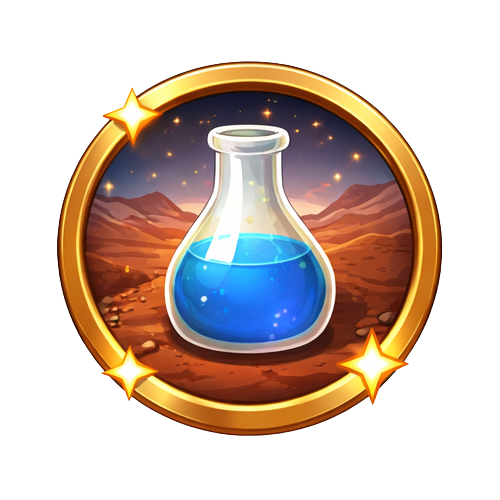
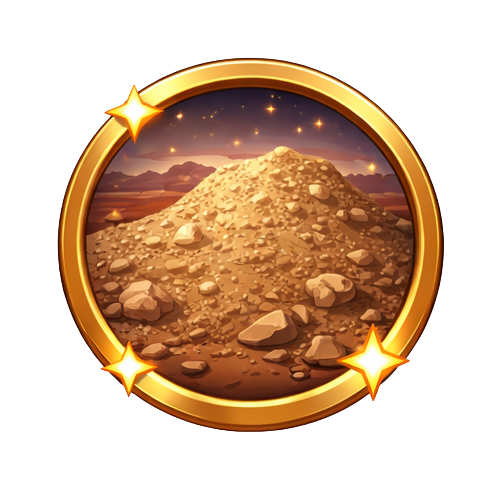
remove water related contents

diff --git a/public/user-profile.js b/public/user-profile.js
@@ -20,7 +20,6 @@ const sampleImages = {
     'gypsum': 'images/gypsum.png',
     'regolith': 'images/regolith.png',
     'smeciteClay': 'images/smeciteClay.png',
-    'water': 'images/water.png',
     
     // Tool images
     'repairTool': 'images/repairTool.png',
@@ -58,8 +57,7 @@ const achievementImages = {
     'carbonateMaster': 'images/achievements/rock2.png',
     'clayMaster': 'images/achievements/rock3.png',
     'gypsumMaster': 'images/achievements/rock4.png',
-    'waterMaster': 'images/achievements/rock5.png',
-    'regolithMaster': 'images/achievements/rock6.png',
+    'regolithMaster': 'images/achievements/rock5.png',
     'allRocksMastered': 'images/achievements/allrocksbadge.png',
 };
 
@@ -96,10 +94,6 @@ const achievementInfo = {
     'carbonateMaster': {
         title: 'Carbonate Master',
         description: 'Reach level 3 info for Carbonate Rock'
-    },
-    'waterMaster': {
-        title: 'Water Master',
-        description: 'Reach level 3 info for Water'
     },
     'allRocksMastered': {
         title: 'Mars Geologist',
@@ -403,7 +397,6 @@ function displayAchievements(data) {
         'gypsumMaster',
         'clayMaster',
         'carbonateMaster',
-        'waterMaster',
         'allRocksMastered'
     ];
     

diff --git a/public/firebase-auth.js b/public/firebase-auth.js
@@ -115,11 +115,6 @@ const createInitialAchievements = () => {
             unlockDate: "",
             score: 0
         },
-        waterMaster: {
-            unlocked: false,
-            unlockDate: "",
-            score: 0
-        },
         allRocksMastered: {
             unlocked: false,
             unlockDate: "",
@@ -150,10 +145,6 @@ const createUserProfile = async (userId, email) => {
             inventory: {
                 tools: ["repairTool", "wiperTool", "extractor"], // Unity uses list, not dictionary
                 samples: {
-                    water: {
-                        amount: 0,
-                        highScore: 0
-                    },
                     regolith: {
                         amount: 0,
                         highScore: 0

diff --git a/public/leaderboard.html b/public/leaderboard.html
@@ -79,10 +79,6 @@
                 <span class="rock-icon">🪨</span>
                 Basalt
             </button>
-            <button class="rock-tab" data-rock="water">
-                <span class="rock-icon">💧</span>
-                Water
-            </button>
             <button class="rock-tab" data-rock="regolith">
                 <span class="rock-icon">🌑</span>
                 Regolith

diff --git a/public/firebase-init.js b/public/firebase-init.js
@@ -5,7 +5,7 @@
  */
 
 // Import authentication functions from firebase-auth module
-import { auth, loginUser, signupUser, logoutUser, watchAuthState } from './public/firebase-auth.js';
+import { auth, loginUser, signupUser, logoutUser, watchAuthState } from './firebase-auth.js';
 
 // ============================================
 // DOM Element References

diff --git a/public/firebase-leaderboard.js b/public/firebase-leaderboard.js
@@ -23,7 +23,6 @@ let currentRock = 'totalScore';
 const rockNames = {
     totalScore: 'Total Score',
     basalt: 'Basalt',
-    water: 'Water',
     regolith: 'Regolith',
     smeciteClay: 'Smecite Clay',
     gypsum: 'Gypsum',
